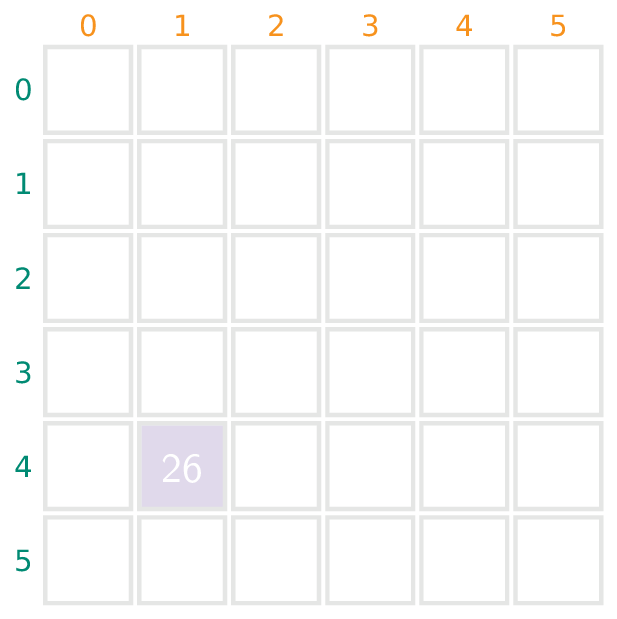
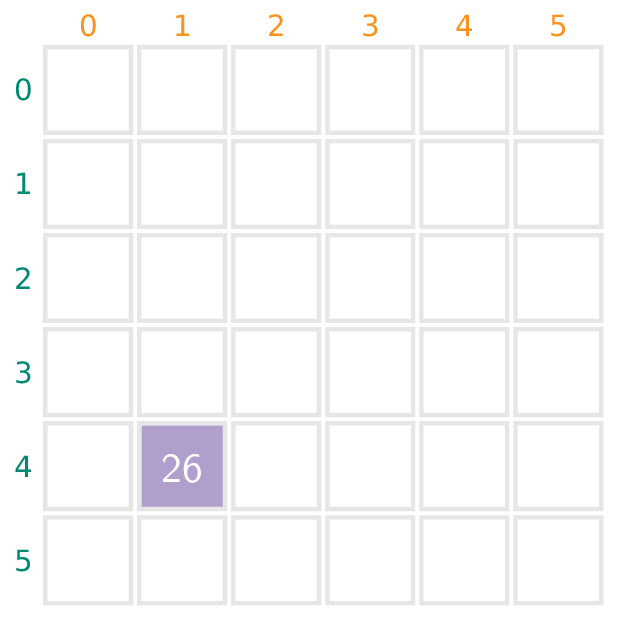
Update images and adjust opacity in coordinate square exercise

Changed region(s): [[0.2156, 0.6753, 0.3695, 0.8288]]

diff --git a/01 basissyntax/06 coordinaat in een vierkant/description/media/image1.tex b/01 basissyntax/06 coordinaat in een vierkant/description/media/image1.tex
@@ -44,7 +44,7 @@
 		},
 		DA/.style={
 			fill,
-			opacity=0.2,
+			opacity=0.5,
 			%rounded corners,
 			inner sep=-1pt,
 			line width=1pt,

diff --git a/01 basissyntax/06 coordinaat in een vierkant/description/media/image2.tex b/01 basissyntax/06 coordinaat in een vierkant/description/media/image2.tex
@@ -44,7 +44,7 @@
 		},
 		DA/.style={
 			fill,
-			opacity=0.2,
+			opacity=0.5,
 			%rounded corners,
 			inner sep=-1pt,
 			line width=1pt,
